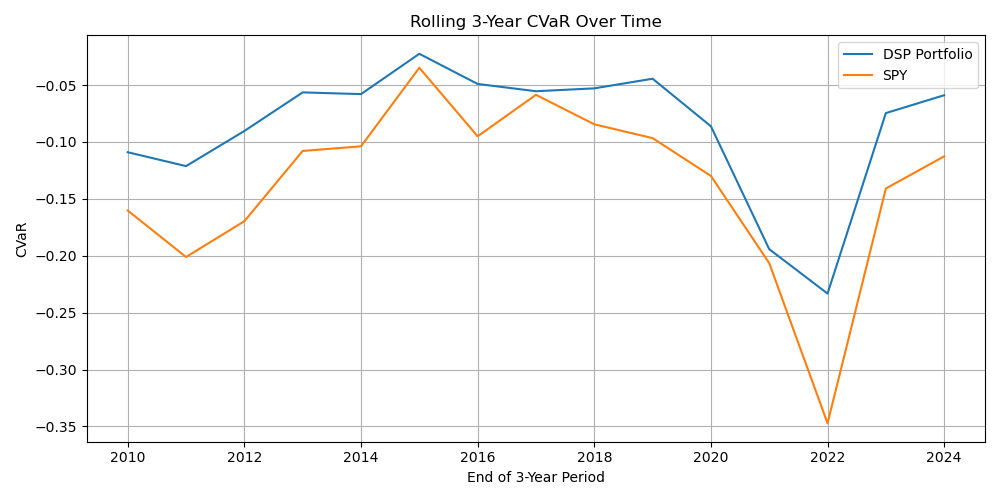
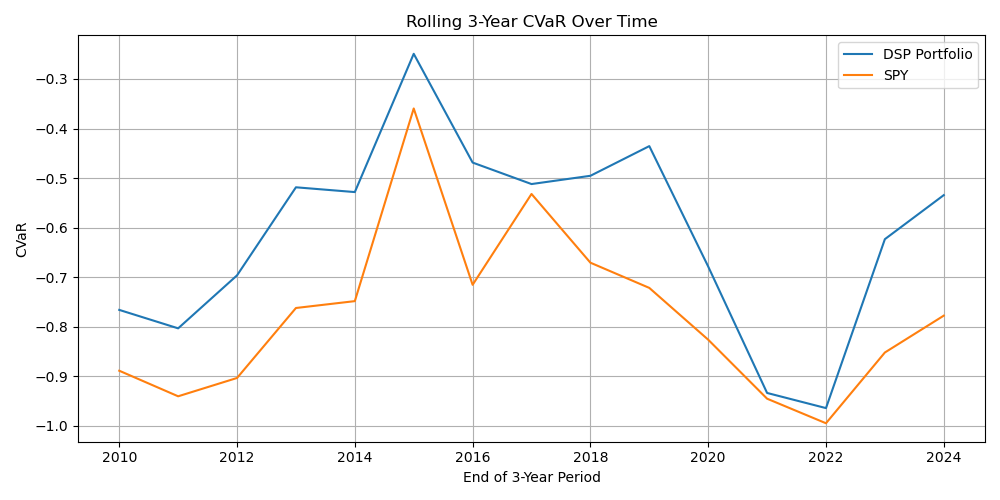
Corrected labels of max_drawdown and sortino

diff --git a/Backtesting/Backtesting.py b/Backtesting/Backtesting.py
@@ -148,12 +148,12 @@ class DSPBacktester(DSPOptimizer):
         
         #print(f"Annual Return: {annual_return:.2%}")
         #print(f"Annual Volatility: {annual_vol:.2%}")
-        print(f"Sharpe Ratio: {sharpe_ratio:.2f}")
+        # print(f"Sharpe Ratio: {sharpe_ratio:.2f}")
         mdd, cvar, sortino = self.compute_risk_metrics(pnl, label="DSP")
 
         #print(f"SPY Annual Return: {annual_return_spy:.2%}")
         #print(f"SPY Annual Volatility: {annual_vol_spy:.2%}")
-        print(f"SPY Sharpe Ratio: {sharpe_ratio_spy:.2f}")
+        # print(f"SPY Sharpe Ratio: {sharpe_ratio_spy:.2f}")
         mdd_spy, cvar_spy, sortino_spy = self.compute_risk_metrics(pnl_spy, label="SPY")
 
         if plot:
@@ -179,6 +179,7 @@ class DSPBacktester(DSPOptimizer):
             plt.tight_layout()
             plt.show()
             plt.close()
+
             # Plot SPY performance
             plt.figure(figsize=(10,5))
             plt.plot(self.rebalance_dates, pnl_spy, label="SPY Period Return", color='green')
@@ -220,31 +221,59 @@ class DSPBacktester(DSPOptimizer):
         sharpe = ann_return / ann_vol if ann_vol > 0 else np.nan
         return {"Annual Return": ann_return, "Annual Volatility": ann_vol, "Sharpe Ratio": sharpe}
 
+    # def compute_risk_metrics(self, pnl_array, label=""):
+
+    #     def max_drawdown(pnl):
+    #         wealth = np.cumprod(1 + pnl)
+    #         peak = np.maximum.accumulate(wealth)
+    #         dd = (wealth - peak) / peak
+    #         return dd.min()
+
+    #     def cvar(pnl, alpha=0.05):
+    #         losses = np.sort(pnl[pnl < 0])
+    #         n = int(np.ceil(alpha * len(losses)))
+    #         return losses[:n].mean() if n > 0 else 0.0
+
+    #     def sortino(pnl, target=0):
+    #         downside = pnl[pnl < target]
+    #         downside_dev = np.sqrt(np.mean((downside - target) ** 2))
+    #         return (np.mean(pnl) - target) / downside_dev if downside_dev > 0 else np.nan
+
+    #     mdd = max_drawdown(pnl_array)
+    #     cvar_val = cvar(pnl_array)
+    #     sortino_val = sortino(pnl_array)
+
+    #     print(f"{label} Max Drawdown: {mdd:.2%}")
+    #     print(f"{label} CVaR (5%): {cvar_val:.2%}")
+    #     print(f"{label} Sortino Ratio: {sortino_val:.3f}")
+
+    #     return mdd, cvar_val, sortino_val
+    
     def compute_risk_metrics(self, pnl_array, label=""):
 
-        def max_drawdown(pnl):
-            wealth = np.cumprod(1 + pnl)
-            peak = np.maximum.accumulate(wealth)
-            dd = (wealth - peak) / peak
-            return dd.min()
+        print(f"Min {label} PnL:", pnl_array.min())
+        rebalance_every = self.rebalance_every
+        annual_factor = 252 / rebalance_every
 
-        def cvar(pnl, alpha=0.05):
-            losses = np.sort(pnl[pnl < 0])
-            n = int(np.ceil(alpha * len(losses)))
-            return losses[:n].mean() if n > 0 else 0.0
+        wealth = np.cumprod(1 + pnl_array)
+        peak = np.maximum.accumulate(wealth)
+        dd = (wealth - peak) / peak
+        mdd = dd.min()
 
-        def sortino(pnl, target=0):
-            downside = pnl[pnl < target]
-            downside_dev = np.sqrt(np.mean((downside - target) ** 2))
-            return (np.mean(pnl) - target) / downside_dev if downside_dev > 0 else np.nan
+        losses = np.sort(pnl_array[pnl_array < 0])
+        n = int(np.ceil(0.05 * len(losses)))
+        cvar_val = losses[:n].mean() if n > 0 else 0.0
+        cvar_annual = (1 + cvar_val) ** annual_factor - 1
 
-        mdd = max_drawdown(pnl_array)
-        cvar_val = cvar(pnl_array)
-        sortino_val = sortino(pnl_array)
+        downside = pnl_array[pnl_array < 0]
+        downside_dev = np.sqrt(np.mean((downside) ** 2))
+        sortino_period = np.mean(pnl_array) / downside_dev if downside_dev > 0 else np.nan
+        sortino_annual = sortino_period * np.sqrt(annual_factor)
 
-        print(f"{label} Max Drawdown: {mdd:.2%}")
-        print(f"{label} CVaR (5%): {cvar_val:.2%}")
-        print(f"{label} Sortino Ratio: {sortino_val:.3f}")
+        # print(f"{label} Max Drawdown: {mdd:.2%}")
+        # print(f"{label} Annualized CVaR (5%): {cvar_annual:.2%}")
+        # print(f"{label} Annualized Sortino: {sortino_annual:.3f}")
 
-        return mdd, cvar_val, sortino_val
+        return mdd, cvar_annual, sortino_annual
+
 

diff --git a/Backtesting/analyze_performance.py b/Backtesting/analyze_performance.py
@@ -35,9 +35,9 @@ for k in k0:
         print(f"Performance of backtest results over period {start_idx // 252 + 2007} to {end_idx // 252 + 2007}")
         metrics = bt.performance()
         sharpe_ratios.append(metrics[0])
-        sortino.append(metrics[1])
+        MaxDrawdown.append(metrics[1])
         CVaR.append(metrics[2])
-        MaxDrawdown.append(metrics[3])
+        sortino.append(metrics[3])
     except:
         print("Data not found, first run 'run_parallel_backtest.py' file")
         #bt.run_backtest(start_idx=start_idx, end_idx=end_idx)
@@ -80,7 +80,7 @@ plt.show()
 plt.close()
 
 plt.figure(figsize=(10,5))
-plt.plot(years, MaxDrawdown, label="Max Drawdown")
+plt.plot(years, [(-mdd[0],-mdd[1]) for mdd in MaxDrawdown], label="Max Drawdown")
 plt.grid(True)
 plt.title(f"Rolling {n_days//252}-Year Max Drawdown Over Time")
 plt.xlabel(f"End of {n_days//252}-Year Period")
